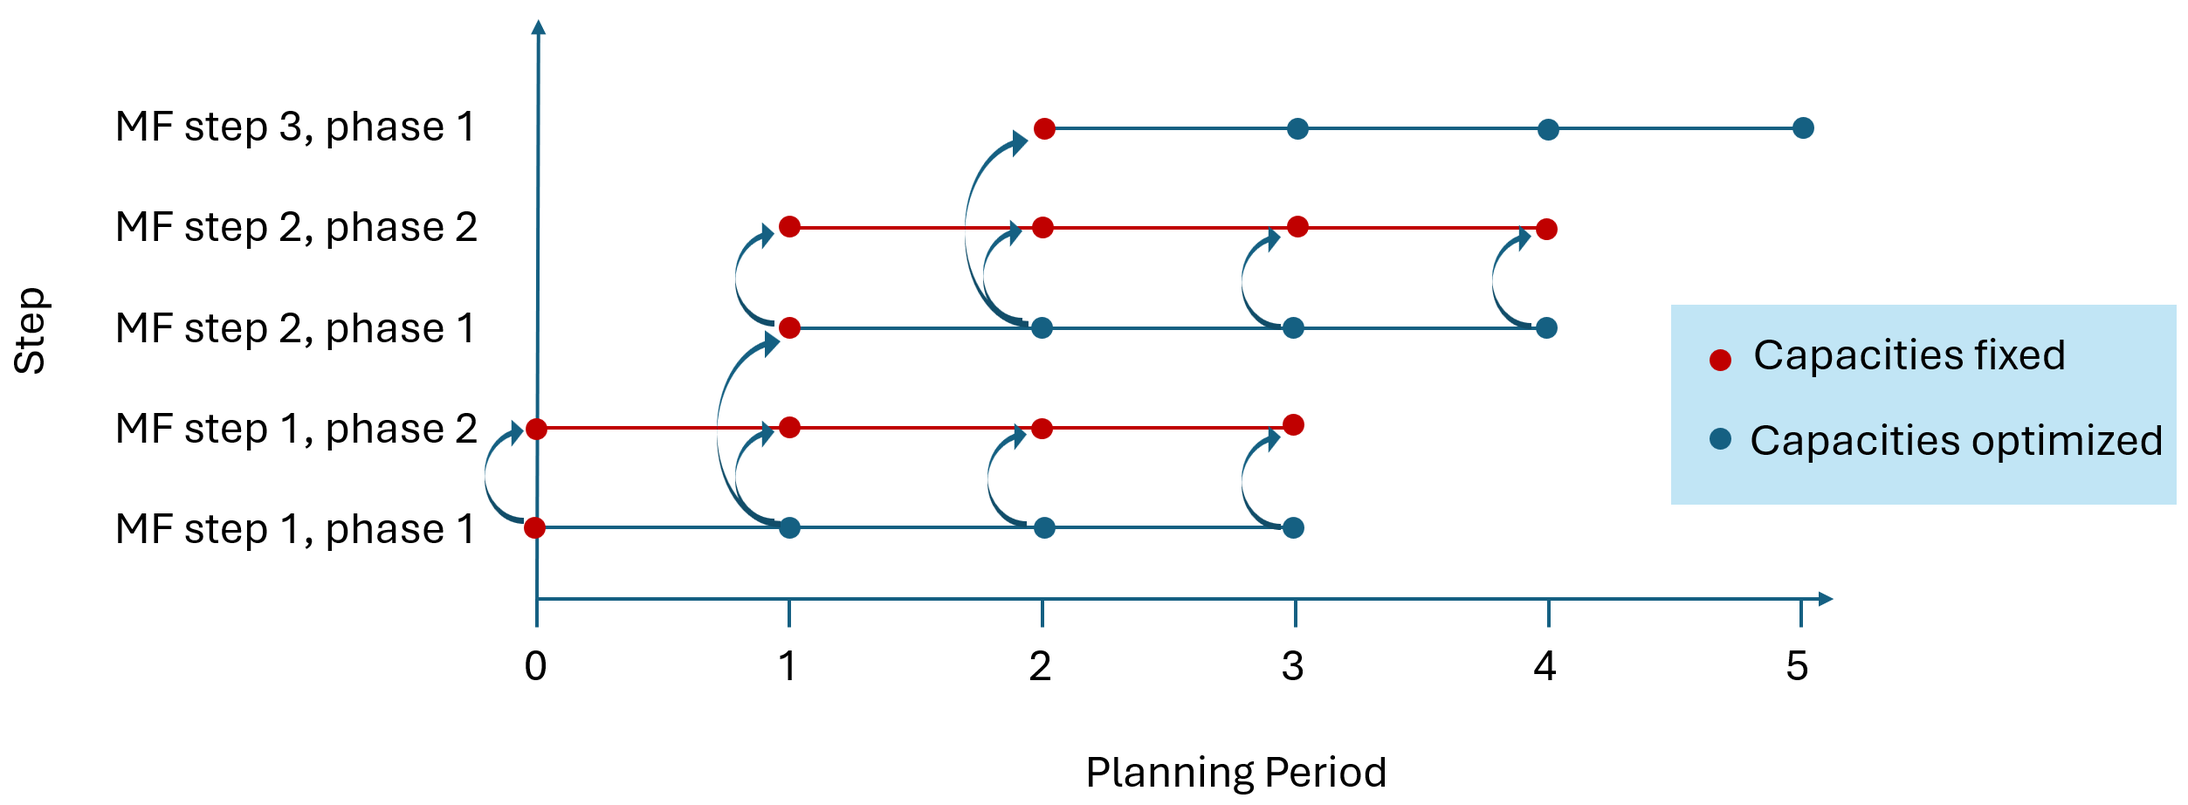
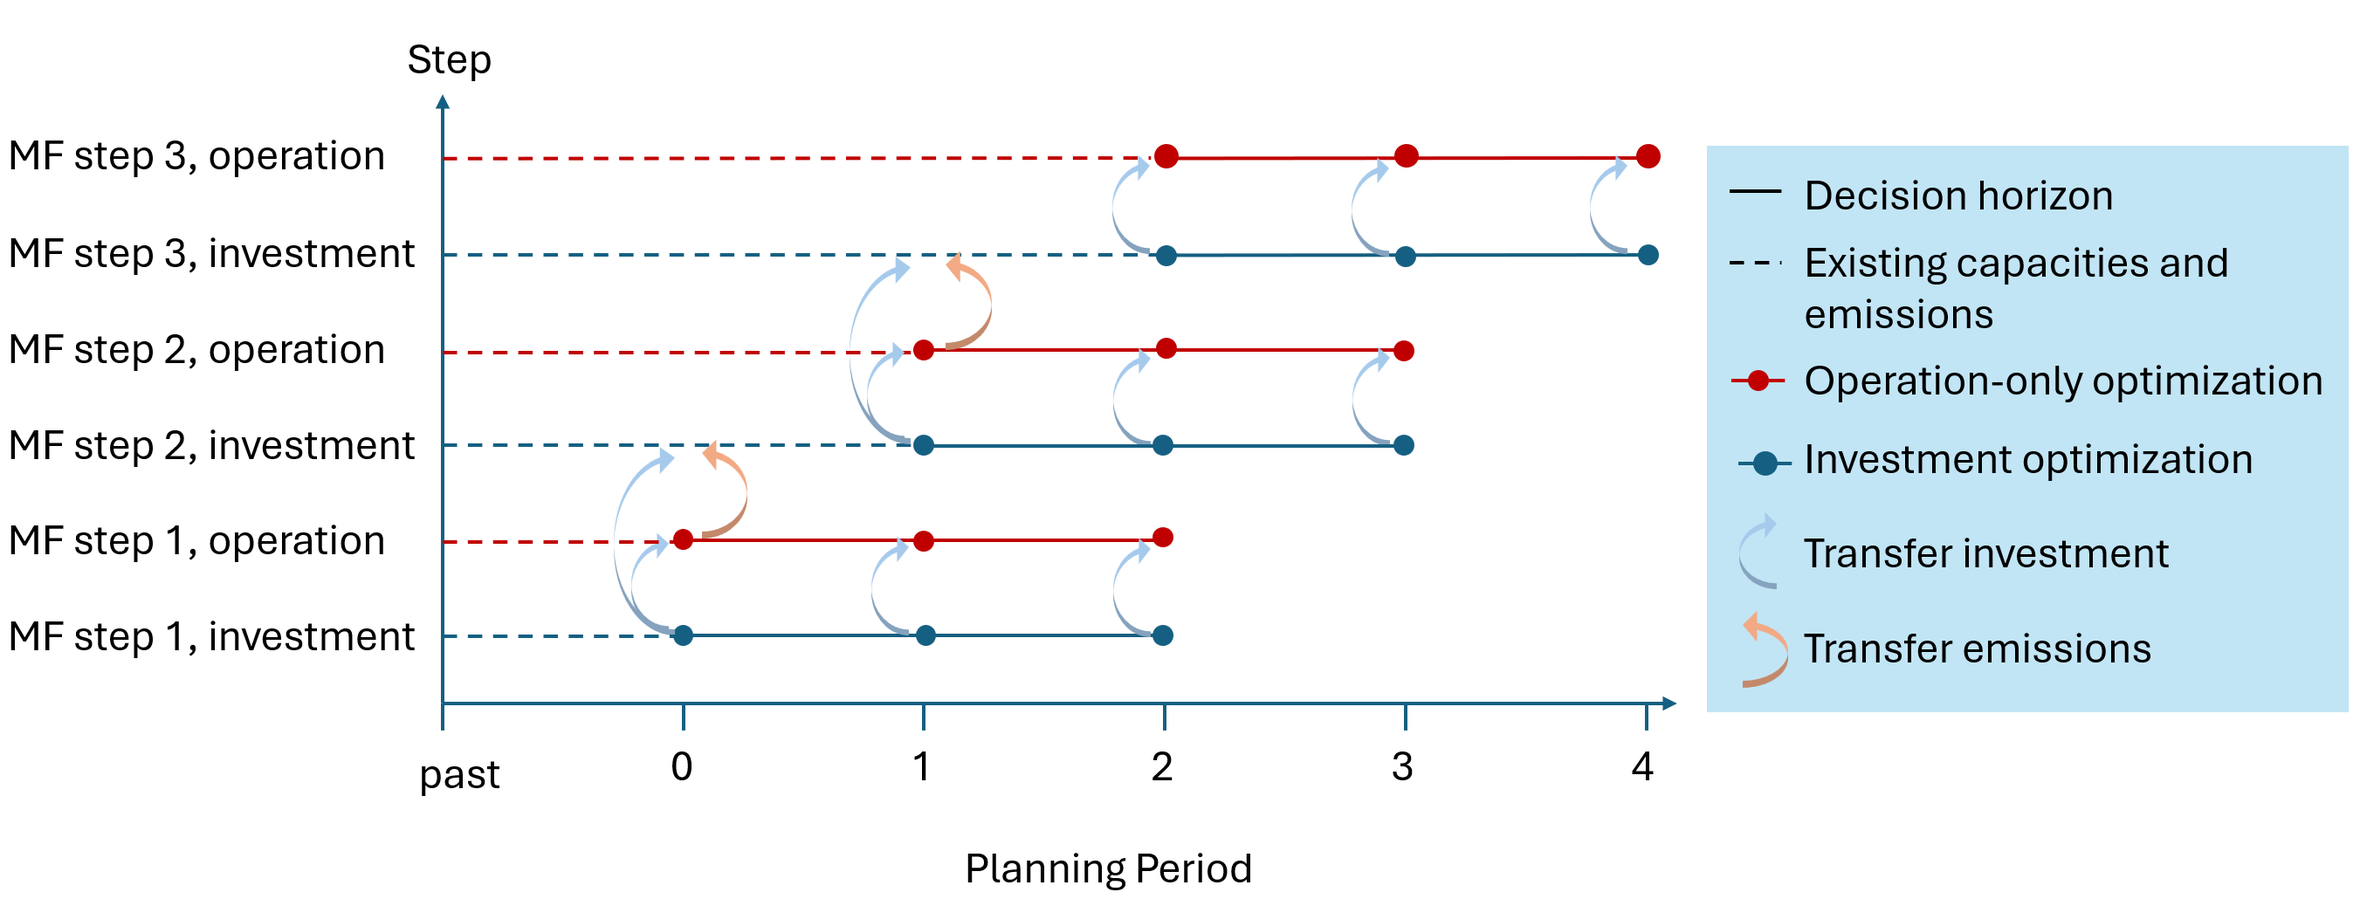
Address review comments in pull request
Thank you Jacob Mannhardt for the helpful feedback on the pull request.
This commit address all comments form Jacob.

diff --git a/zen_garden/model/optimization_setup.py b/zen_garden/model/optimization_setup.py
@@ -78,7 +78,7 @@ class OptimizationSetup(object):
         # step of optimization horizon
         self.step_horizon = 0
 
-        # flag marking whether the simulation is in capacity expansion or
+        # flag marking whether the optimization is in capacity expansion or
         # operations-only phase (only if `include_operation_only_phase` is true)
         self.operation_only_phase = False
 
@@ -538,25 +538,25 @@ class OptimizationSetup(object):
             parser.write_parsed_output()
 
     def add_results_of_optimization_step(self, step_horizon):
-        """Adds capacity additions and carbon emissions to next simulation step
+        """Adds capacity additions and carbon emissions to next optimization step
 
         This function takes the capacity additions and carbon emissions of the 
-        current simulation step and adds them to the existing capacity and
-        existing emissions of the next simulation step. It is used for myopic 
-        foresight and for operation-only simulations. 
+        current optimization step and adds them to the existing capacity and
+        existing emissions of the next optimization step. It is used for myopic 
+        foresight and for operation-only model runs. 
 
         In myopic foresight, values from the currently simulated year are added 
         as existing capacities and emissions for future steps.
 
-        In operation-only simulations, installed capacities from the previous 
-        capacity-planning simulations are added as existing capacities.
+        In operation-only optimizations, installed capacities from the previous 
+        investment optimization are added as existing capacities.
 
-        In simulations with both features, the capacity additions are taken from 
-        the first phase (capacity-planning) while the emissions are taken from 
-        the second phase (operation-only). This allows model users to 
+        In optimizations with both features, the capacity additions are taken from 
+        the investment phase while the emissions are taken from 
+        the operation phase. This allows model users to 
         differentiate between how the system is planned and operated. 
 
-        :param step_horizon: year index of the current simulation step. 
+        :param step_horizon: year index of the current optimization step. 
             In myopic foresight, capacities and emissions from this step are 
             added to existing capacities and emissions.
         :type step_horizon: int
@@ -575,13 +575,11 @@ class OptimizationSetup(object):
                 time_steps = self.energy_system.set_time_steps_yearly
                 self.add_new_capacity_addition(time_steps)
 
-            elif self.operation_only_phase:
+            else:
                 self.reset_existing_capacity_to_previous_step()
                 decision_horizon = self.get_decision_horizon(step_horizon)
                 self.add_new_capacity_addition(decision_horizon, capacity_addition = self._old_capacity_addition, invest_capacity = self._old_invest_capacity, cost_capex_overnight = self._old_cost_capex_overnight)
                 self.add_carbon_emission_cumulative(decision_horizon)
-            else:
-                raise Exception("Unknown case identified")
 
         else:
             if  self.system.include_operation_only_phase and not self.operation_only_phase:
@@ -659,7 +657,7 @@ class OptimizationSetup(object):
                                   cost_capex_overnight = None):
         """ Adds the newly built capacity to the existing capacity
 
-        This function adds installed capacities from the current simulation 
+        This function adds installed capacities from the current optimization 
         step to existing capacities in the model. It also adds 
         costs from the installed capacities to existing capacity investment. 
         Capacity values whose magnitude is below that specified by the solver
@@ -713,7 +711,7 @@ class OptimizationSetup(object):
     def add_carbon_emission_cumulative(self, decision_horizon):
         """ Add current emissions to existing emissions.
 
-        This function adds carbon emissions from the current simulation 
+        This function adds carbon emissions from the current optimization 
         step to the existing carbon emissions.
 
         :param decision_horizon: list of the years for to transfer installed 
@@ -803,21 +801,21 @@ class OptimizationSetup(object):
         This function sets proper configurations for the current phase 
         (capacity planning vs. operation only) of the model. 
          
-        :param phase: current phase of the simulation. Must be either
-            `capacity` (for capacity planning) or `operations` for
+        :param phase: current phase of the optimization. Must be either
+            `investment` (for capacity planning) or `operations` for
             operations-only.
         :type phase: str
 
         :returns: None
         """
 
-        if phase == 'capacity':
-            logging.info(f"--- Optimizing capacity and operation ---")
+        if phase == 'investment':
+            logging.info(f"---- Optimizing investment ----")
             self.system.allow_investment = True
             self.operation_only_phase = False
 
         elif phase == 'operation':
-            logging.info(f"--- Optimizing operation only ---")
+            logging.info(f"---- Optimizing operation only ----")
             self.system.allow_investment = False
             self.operation_only_phase = True
         else:

diff --git a/tests/testcases/run_test.py b/tests/testcases/run_test.py
@@ -236,9 +236,9 @@ def test_1i(config, folder_path):
     res = Results(os.path.join("outputs", data_set_name))
     compare_variables_results(data_set_name, res, folder_path)
 
-def test_1x(config, folder_path):
+def test_1j(config, folder_path):
     # run the test
-    data_set_name = "test_1x"
+    data_set_name = "test_1j"
     config.solver.save_duals = True
     main(config=config, dataset_path=os.path.join(folder_path, data_set_name))
 
@@ -407,9 +407,9 @@ def test_3i(config, folder_path):
     # test functions get_total() and get_full_ts()
     check_get_total_get_full_ts(res)
 
-def test_3x(config, folder_path):
+def test_3j(config, folder_path):
     # run the test
-    data_set_name = "test_3x"
+    data_set_name = "test_3j"
     config.solver.save_duals = True
     main(
         config=config, dataset_path=os.path.join(folder_path, data_set_name)
@@ -584,4 +584,4 @@ if __name__ == "__main__":
 
     config.solver.keep_files = False
     folder_path = os.path.dirname(__file__)
-    test_3x(config, folder_path)
+    test_1j(config, folder_path)

diff --git a/zen_garden/utils.py b/zen_garden/utils.py
@@ -1045,7 +1045,6 @@ class StringUtils:
         :param scenario_dict: current scenario dict
         :param steps_horizon: all steps of horizon
         :param step: current step of horizon
-        :param phase: simulation phase i.e. 'operation', or 'capacity and operation'
         :return: scenario name in folder
         :return: subfolder in results file
         :return: mapping of parameters
@@ -1075,15 +1074,6 @@ class StringUtils:
                 subfolder = Path(subfolder), Path(mf_f_string)
             else:
                 subfolder = Path(mf_f_string)
-
-        # # handle two-phase simulations
-        # if config.system.include_operation_only_phase:
-        #     if phase == 'capacity and operation':
-        #         subfolder = Path(subfolder), Path('capacity')
-        #     elif phase == 'operation':
-        #         subfolder = Path(subfolder), Path('operation')
-        #     else: 
-        #         logging.warning(f"Unknown phase {phase}")
 
         return scenario_name, subfolder, param_map
 

diff --git a/zen_garden/postprocess/postprocess.py b/zen_garden/postprocess/postprocess.py
@@ -108,9 +108,17 @@ class Postprocess:
         if isinstance(dictionary, BaseModel):
             dictionary = dictionary.model_dump()
 
+        # check whether valid mode
+        if not mode in ["a", "w"]:
+            ValueError(f"Invalid file write mode {mode} (valid options are 'a' or 'w').")
+
         # set the format
         if format is None:
             format = self.output_format
+
+        # only allow append mode for h5 files
+        if mode == 'a' and format != "h5":
+            raise ValueError(f"Write mode {mode} not available for output format {format}. If include_operation_only_phase = true, outputs must be saved in h5 files.")
 
         if format == "yml":
             # serialize to string

diff --git a/zen_garden/_internal.py b/zen_garden/_internal.py
@@ -68,7 +68,7 @@ def main(config, dataset_path=None, job_index=None, folder_output_path=None):
         # iterate through horizon steps
         for step in steps_horizon:
             # iterate through phases
-            for phase in ['capacity', 'operation']:
+            for phase in ['investment', 'operation']:
                 #if operation phase, exclude capacity expansion
                 if phase == 'operation' and not config.system.include_operation_only_phase:
                     continue

diff --git a/docs/files/tutorial/05_operation_only.rst b/docs/files/tutorial/05_operation_only.rst
@@ -1,8 +1,8 @@
 .. _t_operation_only.t_operation_only:
 
-######################################
-Tutorial 5: Operation-Only Simulations
-######################################
+########################################
+Tutorial 5: Operation-Only Optimizations
+########################################
 
 In some cases, it may be helpful run an operation-only version of ZEN-garden 
 in which the investment in additional capacity is now allowed. This could 
@@ -26,10 +26,10 @@ when estimating future wholesale electricity-prices.
     constraint thus measures the increase in total system cost required to 
     supply one additional unit of the carrier. In the standard capacity planning
     model, total system costs includes variable costs, fixed costs, and 
-    capacity investments. All three of these costs will be reflected in the 
+    capital costs. All three of these costs will be reflected in the 
     dual value, meaning that the dual value will be higher than real-world prices 
     in an energy-only marginal pricing system. In an operation-only model, 
-    capacity and fixed costs are constant. The dual variables thus gives a true
+    capital and fixed costs are constant. The dual variables thus gives a true
     representation of the short-run marginal production cost. 
 
 
@@ -41,10 +41,10 @@ ZEN-garden provides two methods for running operation-only models:
    future capacities) must be pre-specified in the model as existing capacities.
 
 2. A configuration in ``system.json`` called ``include_operation_only_phase`` which
-   allows users to automatically run an operation-only simulation directly after
-   any other ZEN-garden simulation. Capacities in the operation-only 
-   simulation are taken directly from the capacity installations in the original 
-   parent simulation. 
+   allows users to automatically run an operation-only optimization directly after
+   any other ZEN-garden optimization. Capacities in the operation-only 
+   optimization are taken directly from the investment decisions in the original 
+   parent problem. 
 
 In general, using former method is more customizable but requires more upfront
 preparation to configure the existing capacities. The latter method is more 
@@ -88,13 +88,13 @@ this operations-only phase add the following entry to the ``system.json`` file:
 Results
 -------
 
-Variables and duals from the operation-only simulation are stored in the same 
-output files as created for the original parent simulation. The names of 
+Variables and duals from the operation-only optimization are stored in the same 
+output files as created for the original parent optimization. The names of 
 operation-only variables are duals are stored with the suffix ``_operation`` to 
 distinguish them from their phase 1 counterparts. 
 
 The solver configuration ``selected_saved_duals_operation`` allows users to 
-choose which dual values are saved from the operation-only simulation. 
+choose which dual values are saved from the operation-only optimization. 
 Similarly, the solver configurations ``selected_saved_variables_operation`` 
 allows users to chose which variables to save from the operation-only problem. 
 These can be configurations can added to the ``config.json`` file as follows:
@@ -123,25 +123,45 @@ With myopic foresight
     :figwidth: 550 pt
     :align: center
 
-    Schematic diagram of the simulation steps when two-phase capacity/operation
-    simulations are combined with myopic foresight. The above diagram shows
-    a problem with a ``years_in_rolling_horizon`` of 4 years. The lines 
+    Schematic diagram of the optimization steps when the operation-only
+    optimizations are combined with myopic foresight. The above diagram shows
+    a problem with a ``years_in_rolling_horizon`` of 3 years. The lines 
     represent individual optimization problems that ZEN-garden solves. 
     Points are the different planning periods included within those problems.
-    Points in red are periods where capacities are fixed and points in blue are
-    periods where capacities are optimized. Whenever capacities are fixed, the 
-    arrows show where capacity assumptions are taken from.
+    Points in red are periods where new capacity investments are prohibited 
+    whereas points in blue are periods where investments are optimized.
+    For arrows indicate investment decisions and emsisions decisions that 
+    are transferred to existing capacities and emissions in later optimizations. 
 
 The ``include_operation_only_phase`` method is fully compatible with 
 ZEN-garden's myopic foresight (MF) functionality. The :ref:`figure below 
 <t_operation_only.fig_myopic_foresight_and_operation_only>`
-shows the basic setup for simulations with both features. A separate operation-
-only simulation is completed for each step of the myopic foresight 
-problem. This operation-only simulation fixes capacities throughout the whole 
-decision horizon to those of the previous MF solution.
-In the MF step, only the capacity in the first year is fixed. These
-values are taken from MF step.  Existing carbon emissions, however, are taken
-from the operation-only version of the model. 
+shows the basic setup for optimizations with both features. A separate operation-
+only optimization is completed for each step of the myopic foresight 
+problem. 
+
+The first optimization (MF step 1, investment) optimizes investment from the 
+present planning period (year 0) to the end of the decision horizon (year 2). 
+The second optimization (MF step 1, operation) then optimizes operation over the 
+the same decision horizon (years 0 to 2). This operation-only problem uses the 
+investment decisions from the first optimization, as shown by the blue arrows.
+Investment decisions for all three years are transferred from the first 
+optimization to the second optimization.
+
+Next, the third optimization (MF step 2, investment) starts in year 1 and 
+optimizes investment over the new decision horizon (years 1 tp 3). For this
+problem, year 0 is now in the past. Investment decisions for this year are 
+thus fixed at their values from the first optimization (MF step 1, 
+investment) as shown by the big blue arrow on the diagram. Similarly, emissions
+for year zero are fixed a their values from the second optimization (MF step 1,
+operation), as shown by the red arrow. The process continues with a fourth 
+optimization (MF step 2, operation), which optimizes operation for years 1 to 3.
+
+
+Finally, this process is repeated until the last planning period is reached. 
+For each step in the myopic foresight problem, an additional operation-only 
+problem is introduced. The final results object will only show variable values f
+or the first planning period of each optimization. 
 
 
 .. _t_operation_only.example:
@@ -164,7 +184,7 @@ the following question:
    a. In the dataset example, modify the ``system.json`` configurations to set 
       the configuration ```include_operation_only_phase`` to ``true`` (as 
       previously described). This will run an operation-only model after the 
-      main simulation.
+      main optimization.
    b. In the ``config.json`` file, set the solver configuration ``save_duals``
       to true. This ensures that the dual variables are saved in the results.
       
@@ -208,7 +228,12 @@ the following question:
         # plot
         plt.figure()
         plt.plot(np.transpose(dual), c = 'r', label = 'capacity planning')
-        plt.plot(np.transpose(dual_operation), c = 'b', ls = '--', label = 'operation only')
+        plt.plot(
+          np.transpose(dual_operation), 
+          c = 'b', 
+          ls = '--', 
+          label = 'operation only'
+        )
         plt.xlabel('Hour')
         plt.ylabel('Price (MEuro/GW)')
         plt.legend()
@@ -232,10 +257,8 @@ the following question:
    all hours* 
     
 .. note::
-  With some solvers, the price in the operations-only in the 
-  highest-load hour might alternatively equal the price of lost load. 
-  This is also a valid answer, since there is not spare capacity in the
-  system to meet extra demand.
+  With some solvers, the operation-only price in the 
+  highest-load hour might equal the price of lost load. 
 
 .. tip:: 
 

diff --git a/tests/testcases/docu_test_cases.md b/tests/testcases/docu_test_cases.md
@@ -9,7 +9,7 @@
 | 1g        | Base                     | boiler             | -                         | pipeline              | gas, heat                 | 2         | 2 TS           | 1 year                | JB              | Only operation, investment prohibited                                         |
 | 1h        | Base                     | boiler             | -                         | pipeline              | gas, heat                 | 2         | 1 TS           | 2 years               | NB              | Test with different deprecation times                                         |
 | 1i        | Base                     | boiler, boilerBase | -                         | pipeline              | gas, heat                 | 2         | 8 TS           | 1 year                | CF              | Test minimum full load hours constraint                                       |
-| 1x        | Base                     | boiler             | -                         | heat pipeline         | gas, heat                 | 3         | 1 TS           | 1 year                | CF              | operation-only phase for marginal carrier prices                              |
+| 1j        | Base                     | boiler             | -                         | heat pipeline         | gas, heat                 | 3         | 1 TS           | 1 year                | CF              | operation-only phase for marginal carrier prices                              |
 | 2a        | MILP                     | boiler, boilerPWA  | -                         | -                     | gas, heat                 | 2         | 1 TS           | 1 year                | AG              | conver techs with and without PWA capex                                       |
 | 2b        | MILP                     | boiler             | gas storage               | pipeline              | gas, heat                 | 2         | 3 TS           | 1 year                | JM              | min load for all technology types                                             |
 | 2c        | MILP                     | boiler             | gas storage               | pipeline              | gas, heat                 | 2         | 2 TS           | 1 year                | JM              | min capacity for all technology types                                         |
@@ -22,7 +22,7 @@
 | 3g        | time                     | boiler             | gas storage               | pipeline              | gas, heat                 | 2         | full TS, agg   | 3 years, 2 year MF    | JM              | No values tested. TSA yields different values each run.                       |
 | 3h        | time                     | boiler             | gas storage               | pipeline              | gas, heat                 | 2         | 1 TS           | 3 years, PF, biannual | JB              | Test interval between years and related results.                              |
 | 3i        | time                     | boiler             | gas storage               | pipeline              | gas, heat                 | 2         | 3 TS, agg      | 3 years, PF           | LS              | Test multiyear storage periodicity and year specific TS input data.           |
-| 3x        | time                     | boiler             | gas storage               | pipeline              | gas, heat                 | 2         | 1 TS           | 3 years, 1 year MF    | CF              | operation-only phase together with myopic foresight. Params match test_3d.    |
+| 3j        | time                     | boiler             | gas storage               | pipeline              | gas, heat                 | 2         | 1 TS           | 3 years, 1 year MF    | CF              | operation-only phase together with myopic foresight. Params match test_3d.    |
 | 4a        | scenarios                | boiler             | gas storage               | pipeline              | gas, heat                 | 2         | 1 TS           | 1 year                | AG              | test general scenario behavior                                                |
 | 4b        | scenarios                | boiler             | gas storage               | pipeline              | gas, heat                 | 2         | 1 TS           | 1 year                | AG              | test scenario set expansion                                                   |
 | 4c        | scenarios                | boiler             | gas storage               | pipeline              | gas, heat                 | 2         | 1 TS           | 1 year                | AG              | test scenarios for system and analysis                                        |
